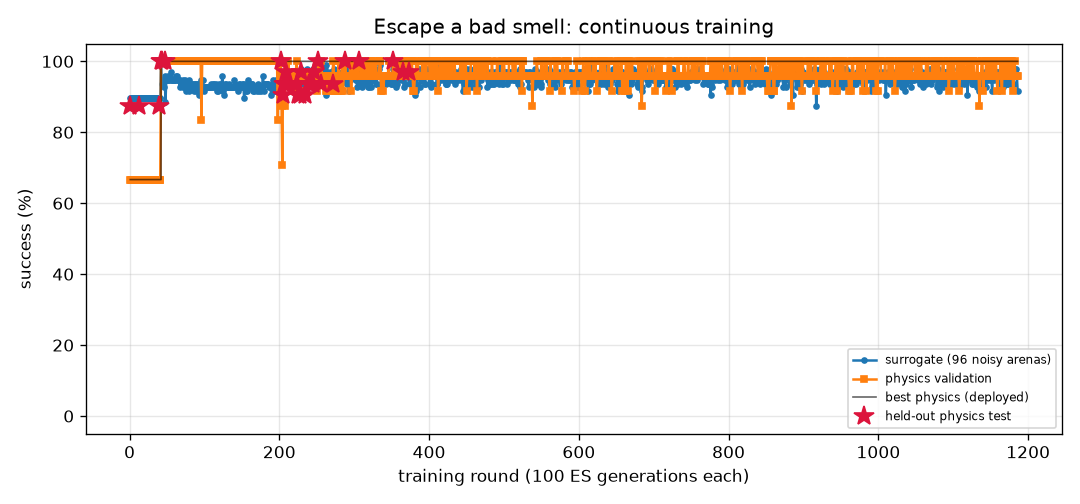
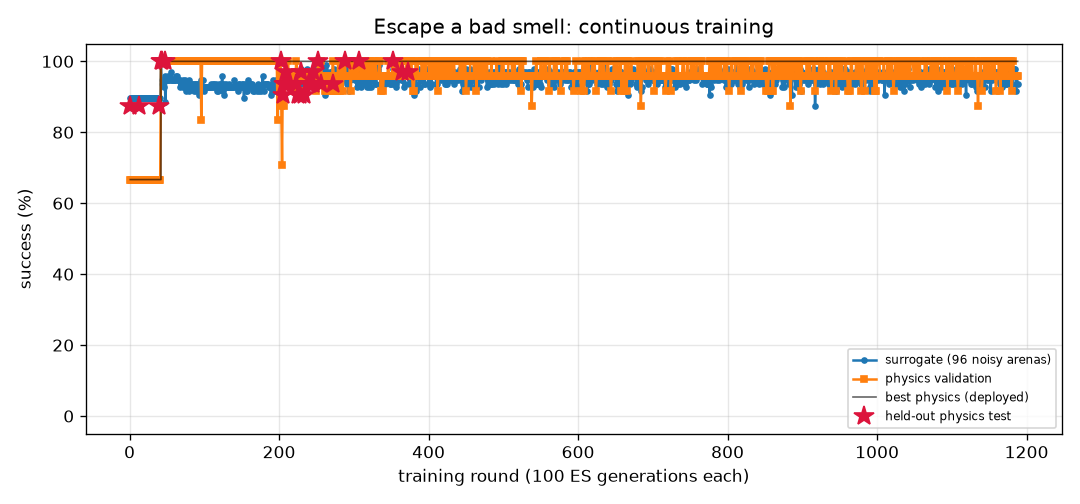
FlyLab: daily snapshot 2026-11-28
Daily entry in projects/09_flylab/training/daily/2026-11.md, plus 13 uncommitted training output file(s).

diff --git a/projects/09_flylab/training/odor_avoid/REPORT.md b/projects/09_flylab/training/odor_avoid/REPORT.md
@@ -1,14 +1,14 @@
 # Escape a bad smell (`odor_avoid`) — training report
 
-*Auto-generated by `train_brains.py`, last updated 2026-11-27T19:44:16.*
+*Auto-generated by `train_brains.py`, last updated 2026-11-27T23:35:00.*
 
 ![curve](curve.png)
 
 | | |
 |---|---|
-| rounds | 1186 |
-| ES generations | 118600 |
-| physics runs | 25770 |
+| rounds | 1188 |
+| ES generations | 118800 |
+| physics runs | 25818 |
 | status | **optimal** |
 | best brain | round 373: physics validation **100%** on 24 arenas, surrogate 97% |
 | held-out physics test | **97%** on 32 unseen arenas (95% CI 84%-99%) (errors: [62.0, 57.4, 62.6, 61.9, 59.0, 61.6, 56.5, 60.7, 31.7, 60.9, 63.1, 57.1, 61.1, 62.1, 61.5, 60.2, 62.2, 55.2, 62.1, 54.2, 61.3, 62.0, 58.0, 61.9, 59.8, 56.5, 56.3, 56.4, 56.3, 57.7, 61.9, 32.4]) |
@@ -17,8 +17,6 @@ Physics error per arena: mm gained away from source (> 6 without first approachi
 
 | round | level | gens | sigma | surrogate | physics val | val errors | test | note |
 |---:|---:|---:|---:|---:|---:|---|---:|---|
-| 1147 | 3 | 114700 | 0.026 | 95% | 100% | [63.1, 61.3, 56.3, 59.2, 61.4, 62.1, 61.7, 29.9, 60.6, 55.0, 60.1, 61.9, 53.3, 55.2, 41.7, 61.3, 62.4, 62.0, 55.3, 58.7, 62.2, 55.2, 55.6, 45.9] |  |  |
-| 1148 | 3 | 114800 | 0.027 | 97% | 96% | [63.0, 61.0, 57.0, 58.2, 62.8, 62.4, 62.1, 43.9, 60.6, 60.4, 61.9, 61.9, 51.9, 55.5, 37.4, 61.1, 62.5, 61.2, 55.0, 58.4, 62.3, 58.0, 56.1, 58.1] |  |  |
 | 1149 | 3 | 114900 | 0.026 | 96% | 100% | [63.3, 60.7, 56.2, 61.5, 61.8, 62.7, 60.8, 62.1, 61.8, 61.4, 57.6, 61.9, 51.2, 54.4, 40.1, 62.4, 62.1, 62.5, 51.8, 58.2, 61.9, 62.8, 60.0, 62.8] |  | restart from best |
 | 1150 | 3 | 115000 | 0.026 | 95% | 100% | [62.1, 57.0, 58.7, 59.7, 62.4, 61.7, 61.4, 57.1, 61.5, 62.0, 62.1, 60.8, 54.6, 58.6, 50.9, 62.3, 61.7, 61.5, 55.1, 56.8, 61.8, 61.3, 59.6, 60.5] |  |  |
 | 1151 | 3 | 115100 | 0.027 | 95% | 96% | [62.5, 59.9, 56.2, 60.9, 62.5, 61.8, 61.7, 35.0, 62.2, 60.3, 61.9, 62.2, 52.5, 55.0, 40.3, 61.4, 62.0, 61.0, 54.9, 57.4, 62.2, 60.3, 60.1, 48.2] |  |  |
@@ -57,3 +55,5 @@ Physics error per arena: mm gained away from source (> 6 without first approachi
 | 1184 | 3 | 118400 | 0.025 | 98% | 96% | [60.5, 55.0, 55.9, 58.5, 60.0, 59.9, 59.4, 31.2, 60.7, 39.4, 21.0, 60.6, 47.8, 54.7, 37.3, 52.0, 60.4, 55.3, 48.8, 54.6, 60.5, 44.9, 58.6, 54.0] |  |  |
 | 1185 | 3 | 118500 | 0.025 | 96% | 96% | [62.2, 60.2, 56.4, 60.7, 61.3, 62.6, 61.8, 47.8, 62.3, 62.2, 57.9, 61.4, 54.6, 55.8, 40.8, 62.4, 61.9, 62.6, 55.0, 56.4, 61.6, 62.0, 59.7, 61.7] |  | restart from best |
 | 1186 | 3 | 118600 | 0.026 | 92% | 96% | [62.3, 57.2, 57.8, 61.3, 61.3, 60.7, 61.5, 45.9, 62.1, 40.3, 60.9, 61.1, 52.2, 58.2, 37.7, 59.8, 61.1, 45.3, 54.6, 59.8, 61.3, 40.0, 60.3, 32.1] |  |  |
+| 1187 | 3 | 118700 | 0.029 | 96% | 96% | [62.6, 57.0, 58.1, 59.7, 61.6, 61.9, 61.2, 60.9, 61.5, 61.0, 57.8, 60.1, 52.8, 57.6, 44.0, 62.0, 61.2, 61.6, 54.4, 59.5, 60.5, 61.9, 59.6, 62.8] |  |  |
+| 1188 | 3 | 118800 | 0.026 | 94% | 96% | [62.9, 59.4, 58.9, 59.5, 61.7, 62.5, 60.4, 59.7, 61.6, 62.3, 61.4, 60.8, 55.1, 58.2, 49.9, 61.7, 61.4, 62.0, 55.3, 56.8, 61.2, 62.2, 59.6, 61.7] |  |  |

diff --git a/projects/09_flylab/training/turn/REPORT.md b/projects/09_flylab/training/turn/REPORT.md
@@ -1,14 +1,14 @@
 # Turn in place (`turn`) — training report
 
-*Auto-generated by `train_brains.py`, last updated 2026-11-27T22:52:23.*
+*Auto-generated by `train_brains.py`, last updated 2026-11-27T23:17:49.*
 
 ![curve](curve.png)
 
 | | |
 |---|---|
-| rounds | 1419 |
-| ES generations | 141900 |
-| physics runs | 34302 |
+| rounds | 1421 |
+| ES generations | 142100 |
+| physics runs | 34350 |
 | status | **optimal** |
 | best brain | round 80: physics validation **100%** on 24 arenas, surrogate 100% |
 | held-out physics test | **97%** on 32 unseen arenas (95% CI 84%-99%) (errors: [1.6, 3.3, 6.3, 3.7, 1.1, 0.4, 2.4, 2.9, 0.1, 2.6, 0.5, 2.7, 1.5, 3.1, 4.5, 0.2, 0.5, 1.1, 2.0, 4.4, 2.8, 3.2, 0.3, 2.2, 0.5, 3.0, 0.3, 5.4, 0.4, 1.0, 4.7, 10.7]) |
@@ -17,8 +17,6 @@ Physics error per arena: deg from target heading (< 20 = success).
 
 | round | level | gens | sigma | surrogate | physics val | val errors | test | note |
 |---:|---:|---:|---:|---:|---:|---|---:|---|
-| 1380 | 3 | 138000 | 0.024 | 100% | 75% | [0.6, 2.8, 7.3, 0.7, 0.1, 0.6, 7.0, 2.4, 6.0, 1.1, 6.2, 0.8, 0.9, 1.9, 6.7, 1.4, 0.6, 1.9, 1.1, 1.6, 3.2, 0.6, 5.9, 8.5] |  | restart from best |
-| 1381 | 3 | 138100 | 0.024 | 99% | 79% | [4.2, 8.0, 0.6, 1.9, 4.1, 2.4, 3.5, 5.4, 2.7, 1.1, 2.5, 1.5, 2.4, 4.3, 3.6, 1.3, 1.5, 0.4, 1.3, 0.8, 7.1, 0.6, 5.0, 1.7] |  |  |
 | 1382 | 3 | 138200 | 0.025 | 100% | 92% | [0.3, 5.4, 1.3, 1.7, 1.5, 2.2, 5.6, 3.6, 5.8, 0.4, 4.0, 0.5, 2.7, 2.8, 4.3, 0.6, 0.9, 0.7, 0.1, 0.1, 1.9, 1.0, 0.4, 3.6] |  |  |
 | 1383 | 3 | 138300 | 0.024 | 100% | 71% | [5.7, 4.1, 0.1, 2.0, 1.9, 1.6, 6.0, 5.9, 4.5, 0.1, 4.2, 0.4, 1.3, 3.8, 4.4, 1.5, 0.5, 1.5, 0.5, 0.1, 3.4, 1.6, 5.9, 5.7] |  |  |
 | 1384 | 3 | 138400 | 0.024 | 99% | 79% | [4.2, 8.7, 1.2, 1.6, 2.6, 0.6, 3.4, 4.8, 4.3, 12.4, 4.0, 1.8, 0.4, 3.1, 3.1, 1.0, 1.9, 0.9, 3.6, 0.9, 4.6, 3.9, 3.5, 4.3] |  | restart from best |
@@ -57,3 +55,5 @@ Physics error per arena: deg from target heading (< 20 = success).
 | 1417 | 3 | 141700 | 0.024 | 100% | 71% | [6.5, 2.9, 3.2, 0.9, 18.6, 2.0, 7.0, 0.0, 6.0, 0.8, 4.0, 1.1, 0.5, 3.5, 5.3, 0.4, 1.4, 1.3, 0.6, 1.6, 4.5, 1.6, 6.2, 7.1] |  |  |
 | 1418 | 3 | 141800 | 0.024 | 100% | 100% | [1.6, 3.2, 8.7, 0.9, 14.1, 1.6, 8.3, 10.4, 8.0, 3.6, 4.7, 3.0, 0.4, 0.4, 4.9, 4.9, 3.1, 4.6, 4.1, 5.2, 2.4, 2.9, 7.7, 8.4] |  |  |
 | 1419 | 3 | 141900 | 0.024 | 99% | 92% | [2.2, 3.5, 1.9, 1.2, 0.4, 2.8, 4.4, 0.3, 4.5, 0.9, 3.5, 0.4, 2.6, 2.2, 4.0, 0.2, 0.1, 1.0, 1.3, 0.2, 3.3, 0.7, 5.8, 6.8] |  |  |
+| 1420 | 3 | 142000 | 0.025 | 98% | 100% | [0.2, 2.4, 2.1, 1.8, 0.1, 0.1, 7.8, 6.8, 6.9, 11.4, 3.3, 2.4, 0.4, 2.4, 2.0, 1.5, 1.0, 1.8, 0.3, 0.9, 1.9, 1.3, 5.8, 4.4] |  | restart from best |
+| 1421 | 3 | 142100 | 0.024 | 98% | 67% | [5.4, 9.4, 0.8, 1.6, 0.4, 4.5, 5.6, 4.8, 4.0, 13.9, 3.4, 2.8, 0.6, 5.6, 2.5, 2.4, 3.3, 0.7, 2.3, 2.5, 4.6, 0.4, 4.2, 3.6] |  |  |

diff --git a/projects/09_flylab/training/light_avoid/REPORT.md b/projects/09_flylab/training/light_avoid/REPORT.md
@@ -1,14 +1,14 @@
 # Hide from light (`light_avoid`) — training report
 
-*Auto-generated by `train_brains.py`, last updated 2026-11-27T20:39:04.*
+*Auto-generated by `train_brains.py`, last updated 2026-11-27T23:38:50.*
 
 ![curve](curve.png)
 
 | | |
 |---|---|
-| rounds | 901 |
-| ES generations | 90100 |
-| physics runs | 21896 |
+| rounds | 902 |
+| ES generations | 90200 |
+| physics runs | 21920 |
 | status | **optimal** |
 | best brain | round 159: physics validation **100%** on 24 arenas, surrogate 100% |
 | held-out physics test | **100%** on 32 unseen arenas (95% CI 89%-100%) (errors: [14.4, 56.1, 58.0, 57.9, 57.5, 14.0, 14.4, 56.6, 56.8, 13.3, 14.1, 56.6, 57.6, 13.1, 57.3, 55.9, 57.2, 55.0, 55.2, 53.9, 55.2, 12.4, 53.8, 53.7, 14.1, 13.7, 55.0, 57.8, 56.2, 13.1, 52.8, 56.5]) |
@@ -17,7 +17,6 @@ Physics error per arena: mm gained away from source (> 6 without first approachi
 
 | round | level | gens | sigma | surrogate | physics val | val errors | test | note |
 |---:|---:|---:|---:|---:|---:|---|---:|---|
-| 862 | 3 | 86200 | 0.024 | 100% | 100% | [49.2, 52.7, 52.7, 50.8, 54.6, 50.7, 50.9, 14.5, 48.0, 13.3, 53.9, 54.5, 14.4, 54.2, 52.6, 49.6, 14.2, 54.7, 52.7, 14.4, 52.2, 54.1, 50.7, 54.4] |  |  |
 | 863 | 3 | 86300 | 0.024 | 100% | 100% | [55.3, 57.4, 57.3, 54.7, 53.8, 54.0, 56.7, 14.5, 50.0, 13.3, 56.2, 53.6, 14.4, 53.2, 57.2, 54.6, 14.2, 55.3, 57.0, 14.4, 55.2, 56.0, 56.9, 52.4] |  | restart from best |
 | 864 | 3 | 86400 | 0.024 | 100% | 100% | [38.2, 37.5, 37.6, 40.1, 39.0, 40.5, 35.5, 14.5, 36.1, 13.2, 40.2, 40.3, 14.4, 39.0, 38.3, 40.0, 14.2, 38.9, 36.8, 14.4, 38.5, 38.5, 35.1, 40.9] |  |  |
 | 865 | 3 | 86500 | 0.024 | 100% | 100% | [53.5, 58.4, 57.6, 54.4, 59.3, 55.1, 56.0, 14.5, 55.7, 11.2, 57.9, 59.1, 14.4, 57.3, 57.9, 54.5, 14.2, 59.6, 58.7, 14.4, 54.4, 57.9, 56.3, 58.8] |  |  |
@@ -57,3 +56,4 @@ Physics error per arena: mm gained away from source (> 6 without first approachi
 | 899 | 3 | 89900 | 0.024 | 100% | 100% | [54.2, 56.4, 56.2, 54.5, 55.3, 54.5, 55.2, 14.5, 50.6, 13.5, 55.1, 55.0, 14.4, 53.5, 56.3, 53.1, 14.2, 55.8, 56.6, 14.4, 52.8, 54.3, 55.1, 54.5] |  | restart from best |
 | 900 | 3 | 90000 | 0.024 | 100% | 100% | [43.4, 46.4, 45.9, 46.3, 47.0, 43.3, 44.5, 14.5, 42.3, 13.4, 46.0, 47.0, 14.4, 46.6, 46.1, 47.3, 14.2, 47.6, 46.3, 14.4, 46.0, 46.8, 44.8, 46.6] |  |  |
 | 901 | 3 | 90100 | 0.024 | 100% | 100% | [53.3, 57.8, 57.5, 54.3, 58.1, 54.4, 56.0, 14.5, 54.2, 13.2, 57.2, 58.0, 14.4, 55.7, 57.6, 53.3, 14.2, 58.6, 58.0, 14.4, 51.3, 57.2, 55.7, 57.6] |  |  |
+| 902 | 3 | 90200 | 0.024 | 100% | 100% | [39.5, 36.8, 36.8, 40.2, 40.3, 38.7, 35.0, 14.5, 38.6, 13.3, 38.2, 41.2, 14.4, 39.5, 38.0, 37.2, 14.2, 40.2, 38.1, 14.4, 31.7, 38.3, 35.6, 40.0] |  |  |

diff --git a/projects/09_flylab/training/TRAINING.md b/projects/09_flylab/training/TRAINING.md
@@ -1,15 +1,15 @@
 # FlyLab brains — continuous training log
 
-*Auto-generated by `train_brains.py`, last updated 2026-11-27T22:55:41.*
+*Auto-generated by `train_brains.py`, last updated 2026-11-27T23:38:50.*
 
 Every skill has its own brain and its own training process: surrogate ES rounds, physics validation in MuJoCo, keep-the-best selection, and a held-out physics test that is never used for selection. See each skill's report for its full round-by-round history. Mastery is progressive: passing a level (100% physics validation, >=95% surrogate) doubles the validation and test arena sets; a brain is **optimal** once it holds up at level 3 (>=95% of 24 validation arenas) AND scores >=90% on the 32 held-out test arenas. Test columns show 95% Wilson confidence intervals.
 
 | skill | rounds | ES generations | physics runs | surrogate | physics val | **physics test** | status |
 |---|---:|---:|---:|---:|---:|---:|---|
 | [Walk forward](walk_forward/REPORT.md) | 574 | 57400 | 13854 | 100% | 100% of 24 | 100% of 32 (CI 89-100%) | **optimal** |
-| [Turn in place](turn/REPORT.md) | 1419 | 141900 | 34302 | 100% | 100% of 24 | 97% of 32 (CI 84-99%) | **optimal** |
+| [Turn in place](turn/REPORT.md) | 1421 | 142100 | 34350 | 100% | 100% of 24 | 97% of 32 (CI 84-99%) | **optimal** |
 | [Go to a location](goto/REPORT.md) | 442 | 44200 | 10558 | 100% | 100% of 24 | 100% of 32 (CI 89-100%) | **optimal** |
 | [Find food by smell](odor_seek/REPORT.md) | 355 | 35500 | 8014 | 100% | 100% of 24 | 100% of 32 (CI 89-100%) | **optimal** |
-| [Escape a bad smell](odor_avoid/REPORT.md) | 1186 | 118600 | 25770 | 97% | 100% of 24 | 97% of 32 (CI 84-99%) | **optimal** |
+| [Escape a bad smell](odor_avoid/REPORT.md) | 1188 | 118800 | 25818 | 97% | 100% of 24 | 97% of 32 (CI 84-99%) | **optimal** |
 | [Walk toward light](light_seek/REPORT.md) | 647 | 64700 | 12408 | 100% | 100% of 24 | 100% of 32 (CI 89-100%) | **optimal** |
-| [Hide from light](light_avoid/REPORT.md) | 901 | 90100 | 21896 | 100% | 100% of 24 | 100% of 32 (CI 89-100%) | **optimal** |
+| [Hide from light](light_avoid/REPORT.md) | 902 | 90200 | 21920 | 100% | 100% of 24 | 100% of 32 (CI 89-100%) | **optimal** |

diff --git a/projects/09_flylab/training/daily/2026-11.md b/projects/09_flylab/training/daily/2026-11.md
@@ -301,3 +301,18 @@ Written by daily_commit.py once a day.
 
 - training supervisor: running
 - commits in the last 24 h: 17 (latest `eb959f7 11:55 FlyLab: continuous training progress`)
+
+## 2026-11-28 (Sat)
+
+| brain | state | level | physics val | test | round |
+|---|---|---|---|---|---|
+| walk_forward | optimal | 3 | 100% of 24 | 100% | 574 |
+| turn | optimal | 3 | 100% of 24 | 97% | 1421 |
+| goto | optimal | 3 | 100% of 24 | 100% | 442 |
+| odor_seek | optimal | 3 | 100% of 24 | 100% | 355 |
+| odor_avoid | optimal | 3 | 100% of 24 | 97% | 1188 |
+| light_seek | optimal | 3 | 100% of 24 | 100% | 647 |
+| light_avoid | optimal | 3 | 100% of 24 | 100% | 902 |
+
+- training supervisor: running
+- commits in the last 24 h: 8 (latest `d1a4e34 22:59 FlyLab: continuous training progress`)
